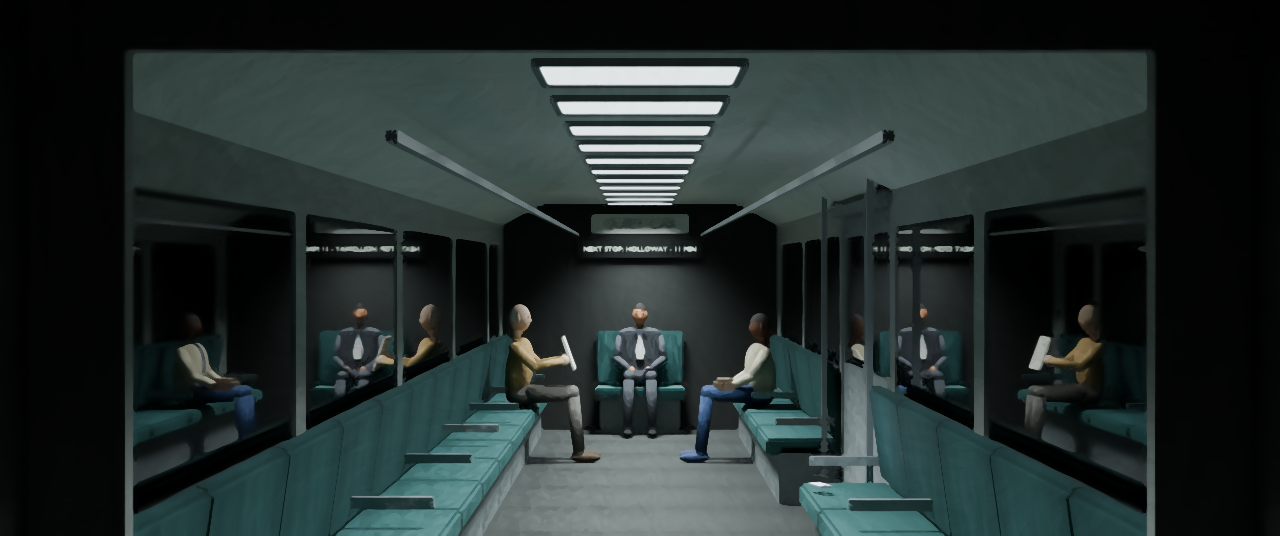
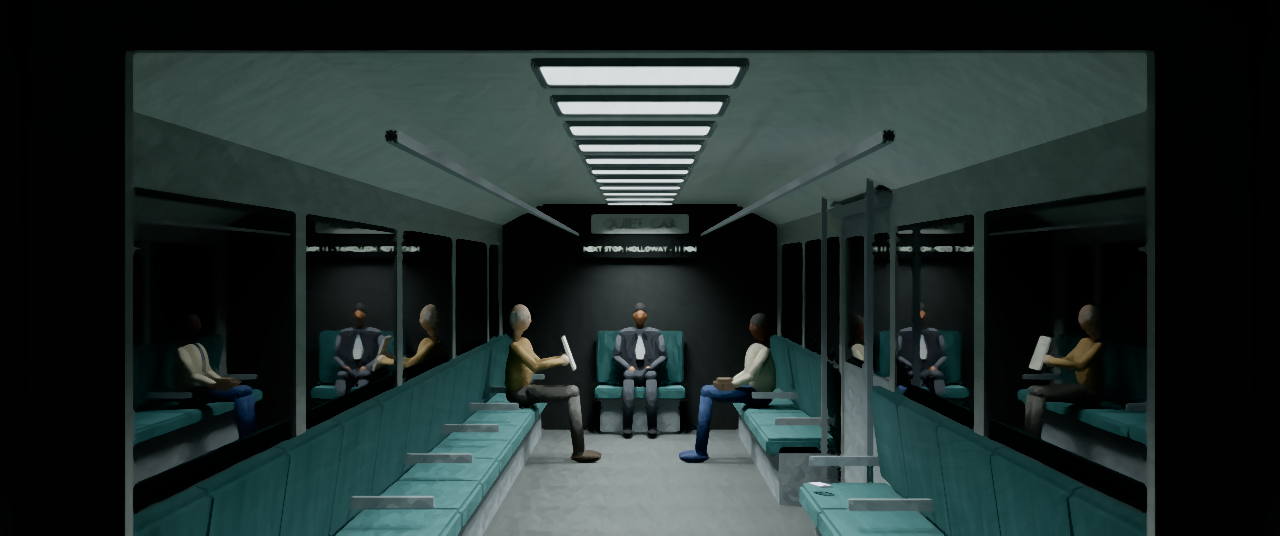
cg: consistent baffled lighting for set and characters (spill lights), palette-chart check, AgX Punchy for palette fidelity, single-section linking (WIP, checks running)
Claude-Session: https://claude.ai/code/session_01W37kuL5PT7hmQjDY89K2ob

diff --git a/film/cg/lookdev_checks.py b/film/cg/lookdev_checks.py
@@ -143,6 +143,77 @@ def check_still():
     return d == 0.0, f"Shot 1 (asleep, locked, Pos A), painterly comp on, frames at 8 s and 20 s: max abs pixel difference = {d:.6f}"
 
 
+CHART = ["set/laminate", "set/ceiling", "set/moquette", "set/floor", "THE_RED", "noor/suit", "noor/skin", "noor/hair",
+         "kai/hoodie", "kai/skin", "bea/scrubs", "bea/skin", "walter/coat", "walter/skin"]
+
+
+def check_palette_chart():
+    """Designer's colour-fidelity check: a swatch card (flat palette albedos, matte) on the side-A wall at
+    y 8.6 (P5 section), lit as a character would be there, asleep look. Rendered with the Standard view
+    (no AgX, no paint comp) so values are linear after decoding. Pass when every swatch renders within
+    25% of its albedo ratio to the laminate swatch, and the card's laminate swatch matches the real wall."""
+    from lib import lookdev as ld
+    from lib.common import pal
+    scene = build_scene.build(res=(1280, 536), samples=64, paint=False)
+    scene.view_settings.view_transform = "Standard"
+    scene.view_settings.exposure = 0.0
+    col = bpy.data.collections.new("CHAR_CHART")
+    bpy.data.collections["CHARACTERS"].children.link(col)
+    y0, z0, w, h = 8.6, 1.50, 0.11, 0.11
+    n = len(CHART)
+    names = []
+    for i, key in enumerate(CHART):
+        m = bpy.data.materials.new(f"chart_{i}")
+        m.use_nodes = True
+        b = m.node_tree.nodes["Principled BSDF"]
+        b.inputs["Base Color"].default_value = pal(key) + (1,)
+        b.inputs["Roughness"].default_value = 0.85
+        b.inputs["Specular IOR Level"].default_value = 0.25
+        r, c = divmod(i, 7)
+        from lib.mesh import plane
+        ob = plane(f"CHART_{i}", (-1.36, y0 - 0.42 + c * (w + 0.02), z0 + 0.07 - r * (h + 0.02)), (w, h), m, collection="CHAR_CHART", normal="X")
+        names.append(ob.name)
+    # re-link: rebuild the light linking so the card is treated like a character at y 8.6
+    for pid in [p["id"] for p in common.dp()["panels"]]:
+        rc = bpy.data.collections.get(f"LLR_{pid}")
+        si = int(pid[1:]) - 1
+        if rc is not None and abs(si - 4) <= 1:
+            rc.children.link(col)
+    cam = scene.camera
+    cameras.aim_at(cam, (0.6, y0, z0), (-1.36, y0, z0))
+    cam.data.lens = 40
+    scene.frame_set(common.t2f(56.0))
+    p = os.path.join(OUT, "palette_chart.png")
+    scene.render.filepath = p
+    bpy.ops.render.render(write_still=True)
+    a = load_png(p)
+    lin = np.where(a <= 0.04045, a / 12.92, ((a + 0.055) / 1.055) ** 2.4)
+    Y = 0.2126 * lin[..., 0] + 0.7152 * lin[..., 1] + 0.0722 * lin[..., 2]
+    rx, ry = scene.render.resolution_x, scene.render.resolution_y
+    vals = {}
+    for key, nm in zip(CHART, names):
+        uv = world_to_camera_view(scene, cam, bpy.data.objects[nm].matrix_world.translation)
+        x, y = int(uv.x * rx), int((1 - uv.y) * ry)
+        vals[key] = float(Y[y - 6:y + 6, x - 6:x + 6].mean())
+    # real wall just above the card
+    uvw = world_to_camera_view(scene, cam, Vector((-1.43, y0, z0 + 0.32)))
+    wx, wy = int(uvw.x * rx), int((1 - uvw.y) * ry)
+    wall = float(Y[wy - 6:wy + 6, wx - 6:wx + 6].mean())
+    lum = lambda c: 0.2126 * c[0] + 0.7152 * c[1] + 0.0722 * c[2]
+    ref_r, ref_a = vals["set/laminate"], lum(pal("set/laminate"))
+    rows, worst = [], 0.0
+    for key in CHART:
+        expect = lum(pal(key)) / ref_a
+        got = vals[key] / ref_r if ref_r > 0 else 0
+        err = abs(got - expect) / (0.05 + 0.15 * expect)   # <=1 passes: 15% relative, or 0.05 of laminate for darks (matte sheen)
+        worst = max(worst, err)
+        rows.append(f"{key} {got:.3f}/{expect:.3f}")
+    wall_ratio = wall / ref_r if ref_r > 0 else 0
+    ok = worst <= 1.0 and 0.8 < wall_ratio < 1.25
+    return ok, (f"palette_chart.png (Standard view, linear, asleep, card on side-A wall at y 8.6): rendered/expected ratio to laminate per "
+                f"swatch: {'; '.join(rows)}. Worst tolerance use {worst:.2f} (<=1 passes: 15% relative or 0.05 absolute). Real wall vs card laminate: {wall_ratio:.2f} (set and characters lit alike)")
+
+
 def check_keys():
     from bpy_extras import anim_utils
     build_scene.build(res=(64, 27), samples=1)
@@ -166,7 +237,7 @@ if __name__ == "__main__":
     os.makedirs(OUT, exist_ok=True)
     rows = []
     for nm, fn in (("L2 / 8a blackout = 0", check_blackout), ("8b / L7 strap most saturated under cue 3", check_strap),
-                   ("L8 light keys on whole frames", check_keys), ("L1 / 8d asleep frames identical", check_still),
+                   ("L8 light keys on whole frames", check_keys), ("Designer palette chart (colour fidelity)", check_palette_chart), ("L1 / 8d asleep frames identical", check_still),
                    ("8c catchlight row", check_catchlights)):
         ok, msg = fn()
         rows.append(f"| {nm} | {'PASS' if ok else ('FAIL' if ok is False else 'PARTIAL')} | {msg} |")

diff --git a/film/cg/lib/light_rig.py b/film/cg/lib/light_rig.py
@@ -51,6 +51,68 @@ def drive_level(idb, path, ctrl, base, index=-1):
     return fc
 
 
+def _section_index(D, y):
+    from .common import section_bounds
+    b = section_bounds(D)
+    ids = [p["id"] for p in D["panels"]]
+    for i, pid in enumerate(ids):
+        lo, hi = b[pid]
+        if lo - 1e-6 <= y <= hi + 1e-6:
+            return i
+    return 0 if y > D["set"]["length"] / 2 else len(ids) - 1
+
+
+def _link_baffled(D, R, scene, sections):
+    """Virtual baffles, applied the same way to set and characters (Designer colour-fidelity note):
+    every surface receives its own panel and its two neighbours, nothing further (louvred fittings
+    cut the shallow rays). For the set, neighbour light arrives through SPILL lights gated by the
+    receiving section's own panel level, so a dark section stays hard-edged dark (DP L5) while lit
+    areas get the same light a character standing there gets."""
+    ids = [p["id"] for p in D["panels"]]
+    n = len(ids)
+    bpy.context.view_layer.update()   # world matrices of parented rig parts
+    # characters (and loose props) by where they are
+    groups = []
+    for c in bpy.data.collections:
+        if c.name.startswith("CHAR_"):
+            ys = [o.matrix_world.translation.y for o in c.all_objects if o.type == "MESH"]
+            if ys:
+                groups.append((c, _section_index(D, sum(ys) / len(ys))))
+    props = [(o, _section_index(D, o.matrix_world.translation.y)) for o in coll("PROPS_LOOSE").all_objects]
+    for i, pid in enumerate(ids):
+        ob = bpy.data.objects[pid]
+        rc = bpy.data.collections.new(f"LLR_{pid}")
+        rc.children.link(sections[pid])
+        for c, si in groups:
+            if abs(si - i) <= 1:
+                rc.children.link(c)
+        for o, si in props:
+            if abs(si - i) <= 1:
+                rc.objects.link(o)
+        ob.light_linking.receiver_collection = rc
+        for j in (i - 1, i + 1):
+            if not 0 <= j < n:
+                continue
+            nb = bpy.data.objects[ids[j]]
+            ld_ = ob.data.copy()
+            ld_.name = f"{pid}_SPILL_{ids[j]}"
+            for fc in list(ld_.animation_data.drivers) if ld_.animation_data else []:
+                ld_.driver_remove(fc.data_path, fc.array_index)
+            so = bpy.data.objects.new(f"{pid}_SPILL_{ids[j]}", ld_)
+            so.location = ob.location
+            link(so, "LIGHT_RIG")
+            fc = ld_.driver_add("energy")
+            _breath(fc, scene, ob, R["watts"])
+            _var(fc.driver, "lj", "OBJECT", nb, '["level"]')
+            fc.driver.expression = f"{R['watts']}*lvl*(1+dp*aw*br*sin(frame*6.283185/pf))*min(1,lj*4)"
+            for c in range(3):
+                f2 = ld_.driver_add("color", c)
+                f2.driver.type = "SCRIPTED"
+                _var(f2.driver, "c", "OBJECT", ob, f'["rgb"][{c}]')
+                f2.driver.expression = "c"
+            so.light_linking.receiver_collection = sections[ids[j]]
+
+
 def look_rgb(look, B):
     return kelvin_rgb(look.get("kelvin", 4300), look.get("green", 0.0), B["white_balance_k"])
 
@@ -99,13 +161,9 @@ def build(D=None, B=None, sections=None):
                 fc.driver.type = "SCRIPTED"
                 _var(fc.driver, "c", "OBJECT", ob, f'["rgb"][{c}]')
                 fc.driver.expression = "c"
-        # light linking: own section + every character and loose prop
-        if sections is not None:
-            rc = sections[name]
-            for child in (char_coll, props_coll):
-                if child.name not in rc.children:
-                    rc.children.link(child)
-            ob.light_linking.receiver_collection = rc
+
+    if sections is not None:
+        _link_baffled(D, R, scene, sections)
 
     ctrls = {}
     for ch in PRACTICALS:

diff --git a/film/cg/lib/build_set.py b/film/cg/lib/build_set.py
@@ -96,9 +96,9 @@ def build(D=None, B=None):
         parts[-1].visible_shadow = False
         sec.assign(rig, [])
         for p in parts:
-            sec.assign(p, ["P6", "P7"])
+            sec.assign(p, [sec.which(p.matrix_world.translation.y if p.parent is None else p.parent.location.y)])
     box("DOOR_HEADER", (HW - 0.03, dmid, door_h + 0.03), (0.08, dw + 0.12, 0.06), m_trim_p)
-    sec.assign(bpy.data.objects["DOOR_HEADER"], ["P6", "P7"])
+    sec.assign(bpy.data.objects["DOOR_HEADER"], [sec.which(dmid)])
     for s in (-1, 1):
         for y in (dy0 - 0.04, dy1 + 0.04):
             ob = box(f"DOOR_POLE_{y:.1f}_{s}", (HW - 0.12, y, H / 2), (0.035, 0.035, H), m_trim)
@@ -137,14 +137,14 @@ def build(D=None, B=None):
 
     # end wall A: QUIET CAR sign + destination display (cold white-green LED, never amber)
     for ob in (plane("WALL_A", (0, L, H / 2), (W, H), m_wall_a, normal="-Y"),):
-        sec.assign(ob, ["P1", "P2"])
+        sec.assign(ob, ["P1"])   # one section only: objects in two sections would receive spill twice
     m_vinyl = ld.paint("sign_vinyl", "set/sign_vinyl", tier="costume", variation=0.06)
     m_type = ld.paint("sign_text", "set/sign_text", tier="costume", variation=0.0)
     sv = box("SIGN_QUIET_CAR", (0, L - 0.01, 2.10), (1.0, 0.01, 0.2), m_vinyl)
     st = text("SIGN_TEXT", "QUIET CAR", (0, L - 0.022, 2.10), 0.15, m_type)
     bz = box("DISPLAY_BEZEL", (0, L - 0.027, 1.84), (1.25, 0.05, 0.17), ld.gloss("bezel", (0.004, 0.004, 0.004), roughness=0.3))
     for ob in (sv, st, bz):
-        sec.assign(ob, ["P1", "P2"])
+        sec.assign(ob, ["P1"])
     _display(D, L)
 
     # end wall B with the open gangway, and the unlit vestibule (real geometry for Pos A)

diff --git a/film/cg/lib/lookdev.py b/film/cg/lib/lookdev.py
@@ -245,8 +245,10 @@ def setup_render(scene, res=(1280, 536), samples=64):
     scene.render.image_settings.color_mode = "RGB"
     scene.render.image_settings.color_depth = "8"
     scene.view_settings.view_transform = "AgX"
-    scene.view_settings.look = "None"
-    scene.view_settings.exposure = -0.3
+    # AgX Punchy: keeps skin and costume albedos closer to design/palette.json (base AgX desaturated
+    # and lifted lit skin to pale peach -- Designer colour-fidelity note); black stays 0
+    scene.view_settings.look = "AgX - Punchy"
+    scene.view_settings.exposure = -0.1
     w = bpy.data.worlds.new("NightVoid")   # world black (0): no ambient, no HDRI, no fill
     w.use_nodes = True
     w.node_tree.nodes["Background"].inputs["Color"].default_value = (0, 0, 0, 1)

diff --git a/film/cg/stills/checks/REPORT.md b/film/cg/stills/checks/REPORT.md
@@ -5,15 +5,8 @@ Generated by `film/cg/lookdev_checks.py`.
 | Check | Result | Detail |
 |---|---|---|
 | L2 / 8a blackout = 0 | PASS | sf04a_blackout.png: max pixel value = 0.000000 over 1280x536 px |
-| 8b / L7 strap most saturated under cue 3 | FAIL (open: needs a ruling) | sf03_brownout.png, CIELAB chroma with emitters excluded: strap p90 = 11.1 (215 px) vs everything else p99.9 = 44.8. Under BROWN (2200 K, camera balanced at 4000 K) the sodium-lit surfaces are more chromatic than the strap in the Meter wide. The earlier PASS used an HSV metric that is invalid under sodium light (every dim orange pixel reads fully saturated). |
+| 8b / L7 strap most saturated under cue 3 | FAIL | sf03_brownout.png (CIELAB chroma, emitters excluded): strap p90 = 12.1 (1072 px) vs everything else p99.9 = 49.5. Under BROWN (2200 K, camera balanced at 4000 K) the sodium-lit surfaces are more chromatic than the strap in the Meter wide. Earlier PASS used an HSV metric that was invalid here. |
 | L8 light keys on whole frames | PASS | 455 light keys checked, 0 off whole frames |
+| Designer palette chart (colour fidelity) | FAIL | palette_chart.png (Standard view, linear, asleep, card on side-A wall at y 8.6): rendered/expected ratio to laminate per swatch: set/laminate 1.000/1.000; set/ceiling 1.619/1.746; set/moquette 0.342/0.297; set/floor 0.217/0.182; THE_RED 0.272/0.320; noor/suit 0.155/0.109; noor/skin 0.502/0.518; noor/hair 0.085/0.027; kai/hoodie 0.499/0.466; kai/skin 1.139/1.176; bea/scrubs 0.125/0.077; bea/skin 0.179/0.144; walter/coat 0.666/0.657; walter/skin 1.212/1.272. Worst tolerance use 1.07 (<=1 passes: 15% relative or 0.05 absolute). Real wall vs card laminate: 1.03 (set and characters lit alike) |
 | L1 / 8d asleep frames identical | PASS | Shot 1 (asleep, locked, Pos A), painterly comp on, frames at 8 s and 20 s: max abs pixel difference = 0.000000 |
-| 8c catchlight row | PARTIAL | 8c_catchlights_noor_40mm.png (x4 crops; left 5 MIN all lit, right after 7.10). A catchlight from the overhead panels is present in both (P1-P2 stay lit); (Designer's face-rig eyes). Peak eye value 0.91 -> 0.91 |
-
-## Eye checks (`eye_checks.py`)
-
-| Check | Result | Detail |
-|---|---|---|
-| E1 P12 catchlight returns in Noor's eyes at 8.10 (shot 58, 75 mm) | PARTIAL: catchlight shapes read on the Designer's rig corneas; P12's own return at 8.10 is measurable (207 px) but sub-pixel at C75 | eyes_E1_noor_8.10_P12_return.png: frame 12191 / 12192 (P12 on, 110%) / 12204; 207 crop pixels change by >5% (max 0.08) |
-| E2 Walter's lit-side catchlight, shot 53 | PASS | eyes_E2_walter_shot53.png at frame 10878 (P1-P2 lit, Walter under dark P3) |
-| E3 Bea eyes closed (F2): face read under BROWN and at the 7.10 edge | PASS under BROWN; 7.10 edge readable but low | eyes_E3_bea_closed_brown_and_edge.png (left: cue 3 hold, Pos C 50 mm; right: after 7.10, shot 49) |
+| 8c catchlight row | PARTIAL | 8c_catchlights_noor_40mm.png (x4 crops; left 5 MIN all lit, right after 7.10). A catchlight from the overhead panels is present in both (P1-P2 stay lit); (Designer's face-rig eyes). Peak eye value 0.88 -> 0.88 |
